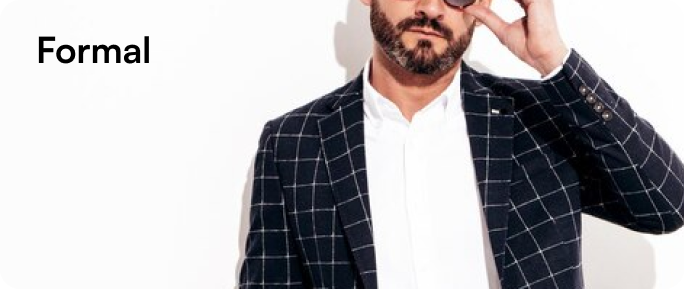
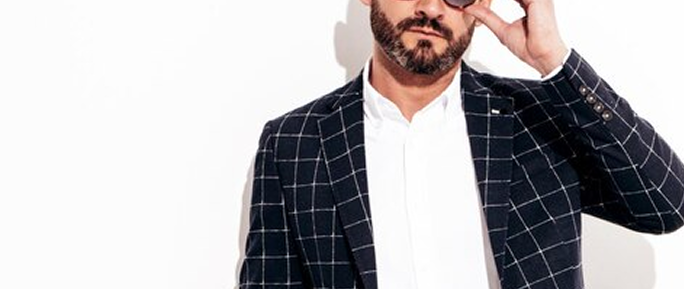
feat: Enhance DressStyleSection layout and improve DressCard component with responsive design

diff --git a/src/components/homepage/Main/DressStyleSection/TopDressDiv.tsx b/src/components/homepage/Main/DressStyleSection/TopDressDiv.tsx
@@ -2,10 +2,18 @@ import { DressCard } from "./DressCard";
 
 export function TopDressDiv() {
   return (
-    <div>
-      <DressCard title="Casual" imgURL="/images/casualDress.png" />
-      
-      <DressCard title="Formal" imgURL="/images/formalDress.png"/>
+    <div className="flex flex-col md:flex-row gap-6 justify-center items-center w-full md:w-1/2 ">
+      <DressCard
+        title="Casual"
+        imgURL="/images/casualDress.png"
+        widthDesktop="md:w-1/3"
+      />
+
+      <DressCard
+        title="Formal"
+        imgURL="/images/formalDress.png"
+        widthDesktop="md:w-2/3"
+      />
     </div>
   );
 }

diff --git a/src/components/homepage/Main/DressStyleSection/DressCard.tsx b/src/components/homepage/Main/DressStyleSection/DressCard.tsx
@@ -1,16 +1,18 @@
 type DressCardProps = {
   title: string;
   imgURL: string;
+  widthMobile?: string;
+  widthDesktop: string;
 };
 
-export function DressCard({ title, imgURL }: Readonly<DressCardProps>) {
+export function DressCard({ title, imgURL, widthDesktop }: Readonly<DressCardProps>) {
   return (
     <a
       href="/"
       style={{ backgroundImage: `url(${imgURL})` }}
-      className="bg-cover bg-center flex"
+      className={`flex w-full ${widthDesktop} h-48 bg-cover bg-center rounded-2xl p-6`}
     >
-      <h3>{title}</h3>
+      <h3 className="font-semibold text-2xl">{title}</h3>
     </a>
   );
 }

diff --git a/src/components/homepage/Main/DressStyleSection/BottomDressDiv.tsx b/src/components/homepage/Main/DressStyleSection/BottomDressDiv.tsx
@@ -2,10 +2,10 @@ import { DressCard } from "./DressCard";
 
 export function BottomDressDiv() {
   return (
-    <div>
-      <DressCard title="Party" imgURL="/images/partyDress.png" />
+    <div className="pt-6 flex flex-col md:flex-row gap-6 justify-center w-full md:w-1/2 ">
+      <DressCard title="Party" imgURL="/images/partyDress.png" widthDesktop="md:w-2/3" />
       
-      <DressCard title="Gym" imgURL="/images/gymDress.png"/>
+      <DressCard title="Gym" imgURL="/images/gymDress.png" widthDesktop="md:w-1/3"/>
     </div>
   );
 }

diff --git a/src/components/homepage/Main/DressStyleSection/DressStyleSection.tsx b/src/components/homepage/Main/DressStyleSection/DressStyleSection.tsx
@@ -3,11 +3,16 @@ import { TopDressDiv } from "./TopDressDiv";
 
 export function DressStyleSection() {
   return (
-    <section>
-      <h2>BROWSE BY DRESS STYLE</h2>
+    <section className="mx-2 mt-10 px-6 py-10 flex flex-col justify-center items-center bg-gray-150 rounded-2xl">
+      <h2
+        style={{ fontFamily: "Integral CF", fontWeight: "bold" }}
+        className="text-4xl text-center pb-6"
+      >
+        BROWSE BY DRESS STYLE
+      </h2>
 
       <TopDressDiv />
-      
+
       <BottomDressDiv />
     </section>
   );

diff --git a/src/components/homepage/Main/CardSection.tsx/CardSection.tsx b/src/components/homepage/Main/CardSection.tsx/CardSection.tsx
@@ -19,7 +19,7 @@ export function CardSection({ products, title }: Readonly<NewArrivalsSectionProp
       <Cards products={products} />
 
       <div className="flex justify-center">
-        <button className="w-full max-w-xs md:max-w-[200px] border border-black/40 p-2 rounded-3xl shadow-2xl">
+        <button className="mt-1 w-full max-w-xs md:max-w-[200px] border border-black/40 p-2 rounded-3xl shadow-2xl">
           View All
         </button>
       </div>
